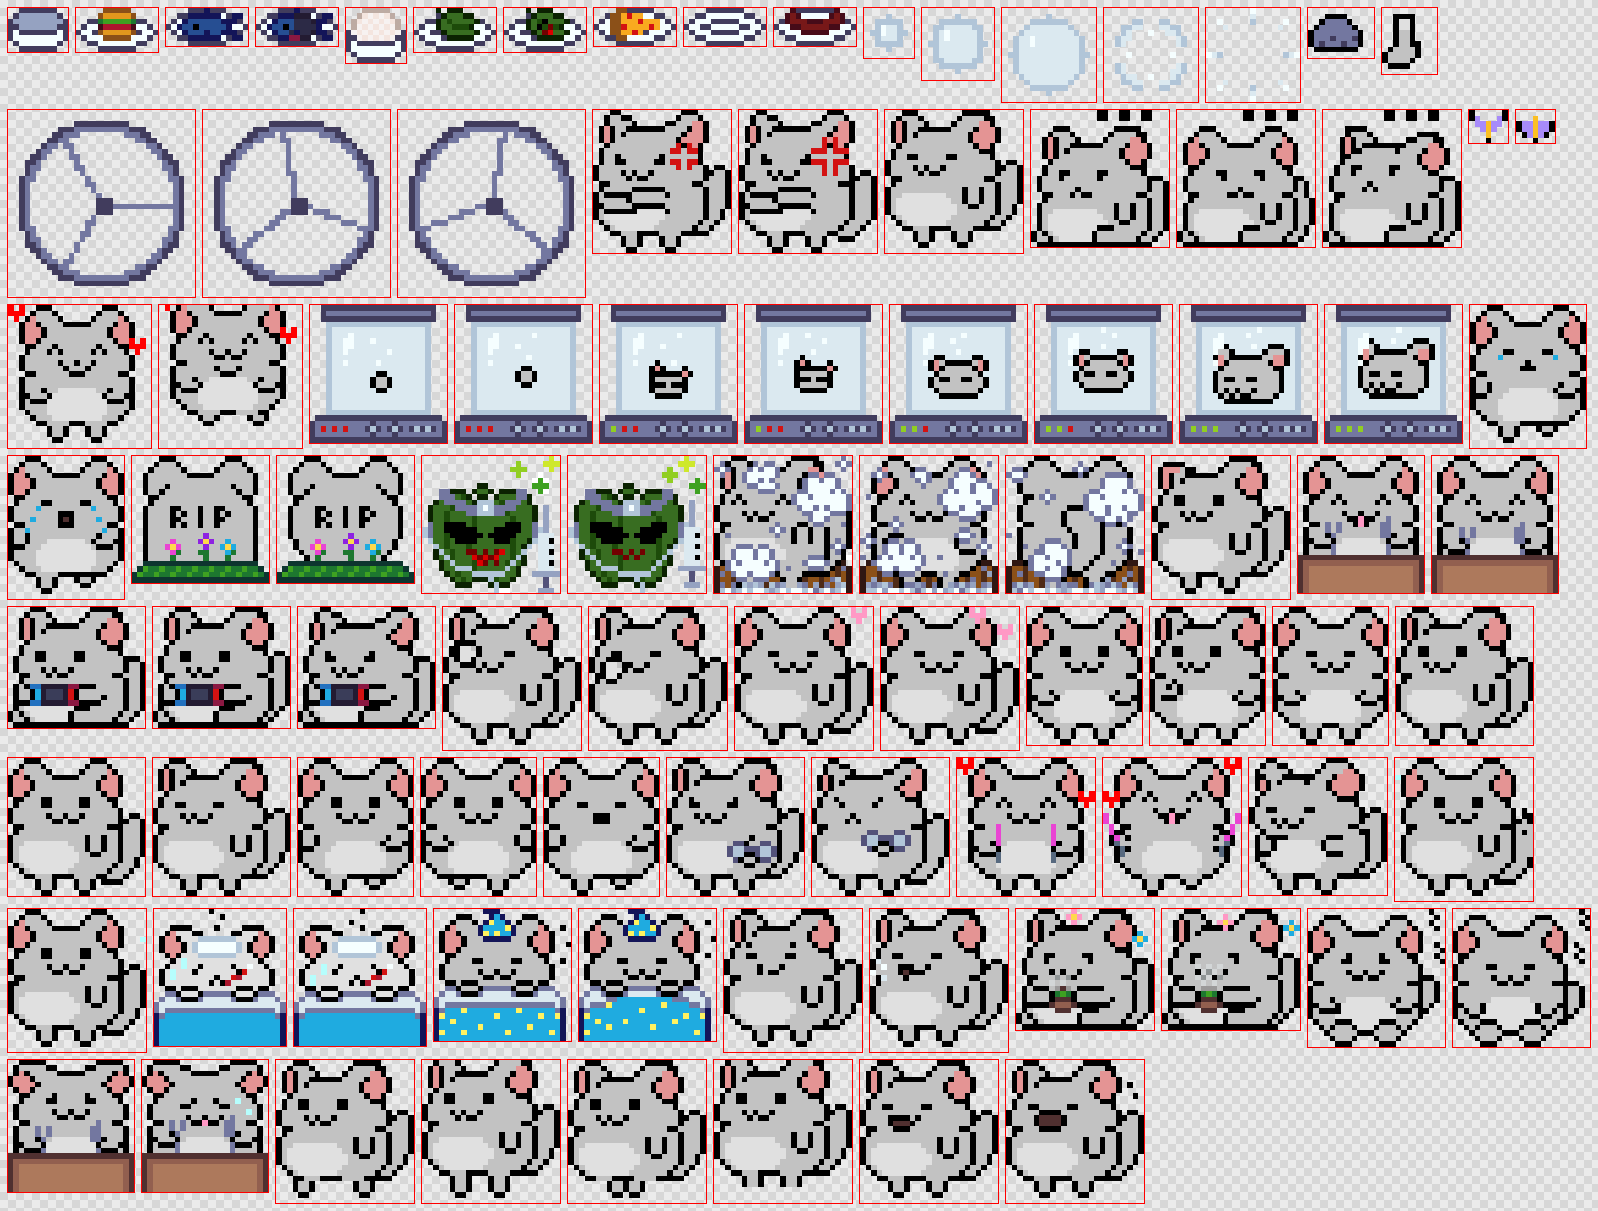
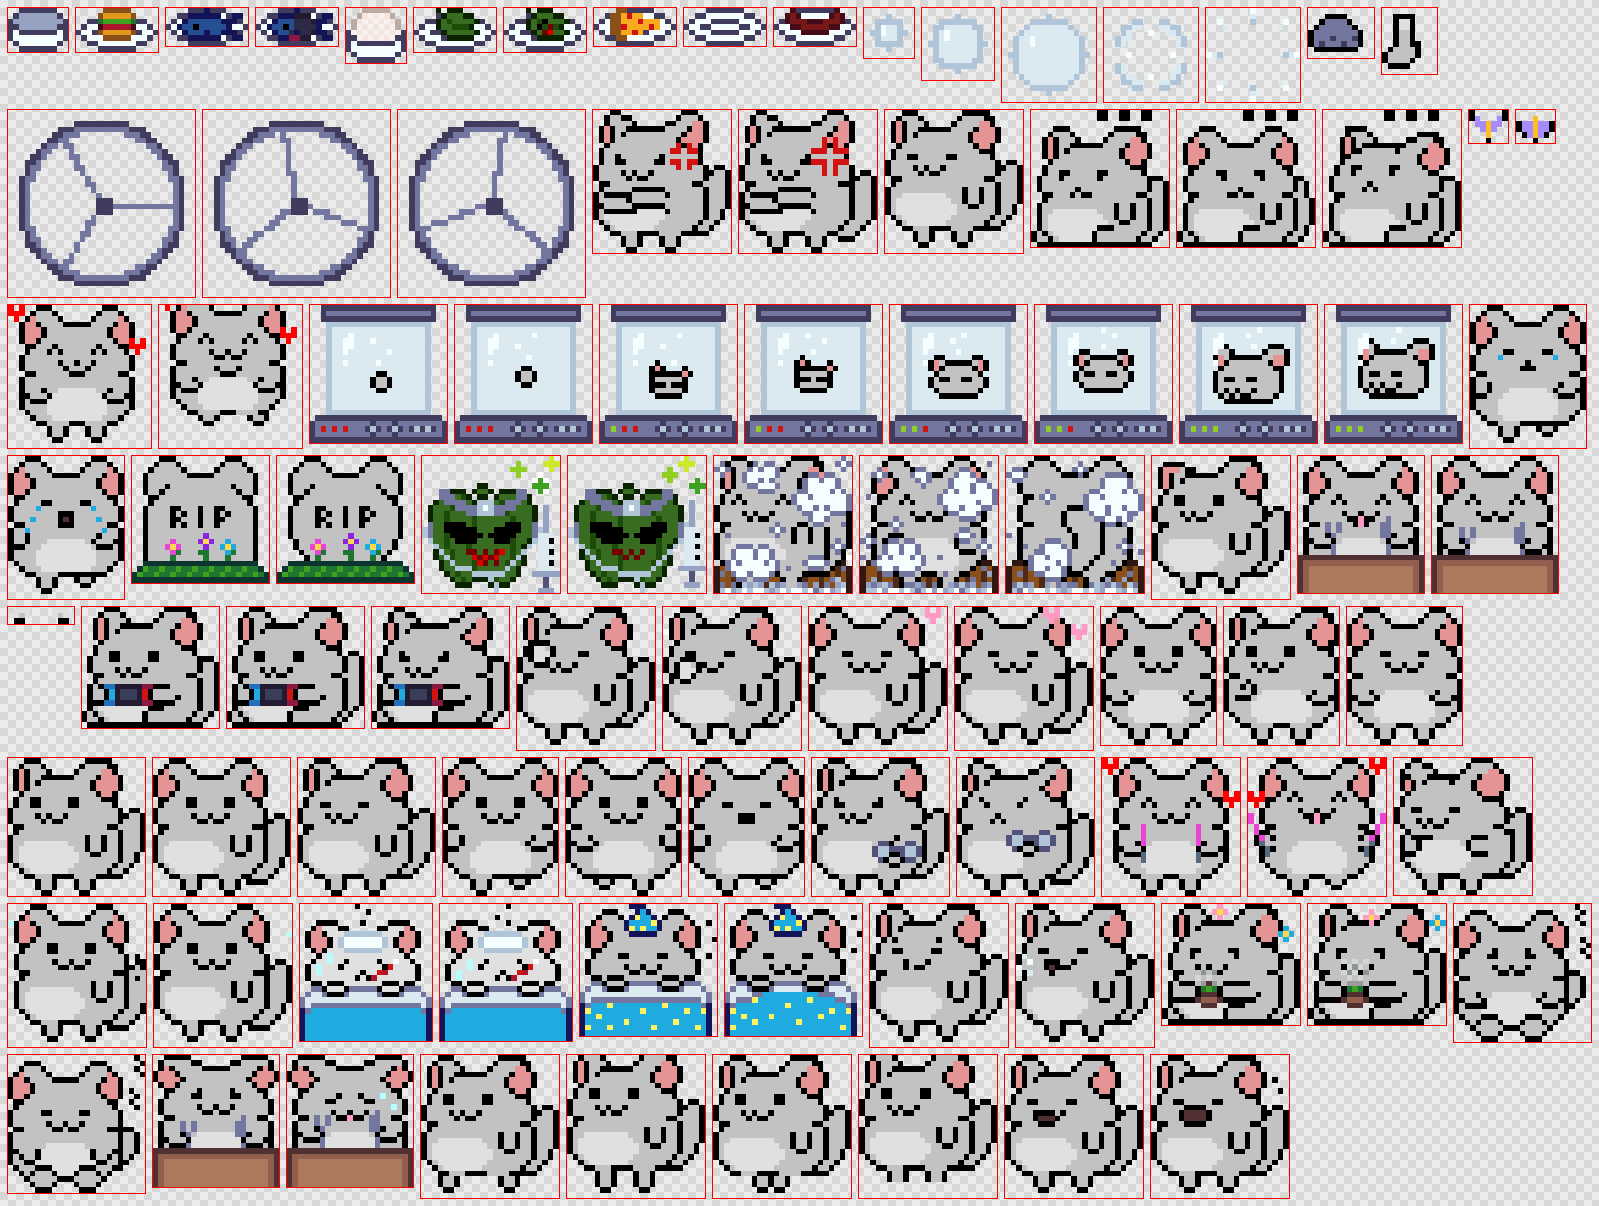
Scaled the Pet by Life Stage and Gave Elders Brow Tufts

diff --git a/src/game/atlas.generated.ts b/src/game/atlas.generated.ts
@@ -54,47 +54,48 @@ export const SPRITE_FRAMES = {
   earTwitch: { x: 1152, y: 456, w: 138, h: 143 },
   eat1: { x: 1298, y: 456, w: 126, h: 137 },
   eat2: { x: 1432, y: 456, w: 126, h: 137 },
-  game1: { x: 8, y: 607, w: 137, h: 121 },
-  game2: { x: 153, y: 607, w: 137, h: 121 },
-  game3: { x: 298, y: 607, w: 137, h: 121 },
-  groom1: { x: 443, y: 607, w: 138, h: 143 },
-  groom2: { x: 589, y: 607, w: 138, h: 143 },
-  heart1: { x: 735, y: 607, w: 138, h: 143 },
-  heart2: { x: 881, y: 607, w: 138, h: 143 },
-  idleFront1: { x: 1027, y: 607, w: 115, h: 138 },
-  idleFront2: { x: 1150, y: 607, w: 115, h: 138 },
-  idleFront3: { x: 1273, y: 607, w: 115, h: 138 },
-  idleSide1: { x: 1396, y: 607, w: 137, h: 138 },
-  idleSide2: { x: 8, y: 758, w: 137, h: 138 },
-  idleSide3: { x: 153, y: 758, w: 137, h: 138 },
-  jog1: { x: 298, y: 758, w: 115, h: 138 },
-  jog2: { x: 421, y: 758, w: 115, h: 138 },
-  jog3: { x: 544, y: 758, w: 115, h: 138 },
-  lift1: { x: 667, y: 758, w: 137, h: 138 },
-  lift2: { x: 812, y: 758, w: 137, h: 138 },
-  lights1: { x: 957, y: 758, w: 138, h: 138 },
-  lights2: { x: 1103, y: 758, w: 138, h: 138 },
-  pekori: { x: 1249, y: 758, w: 138, h: 137 },
-  shiver1: { x: 1395, y: 758, w: 138, h: 143 },
-  shiver2: { x: 8, y: 909, w: 138, h: 143 },
-  sick1: { x: 154, y: 909, w: 132, h: 137 },
-  sick2: { x: 294, y: 909, w: 132, h: 137 },
-  sleep1: { x: 434, y: 909, w: 137, h: 132 },
-  sleep2: { x: 579, y: 909, w: 137, h: 132 },
-  sneeze1: { x: 724, y: 909, w: 138, h: 143 },
-  sneeze2: { x: 870, y: 909, w: 138, h: 143 },
-  tea1: { x: 1016, y: 909, w: 138, h: 121 },
-  tea2: { x: 1162, y: 909, w: 138, h: 121 },
-  tired1: { x: 1308, y: 909, w: 137, h: 138 },
-  tired2: { x: 1453, y: 909, w: 137, h: 138 },
-  unhappyEat1: { x: 8, y: 1060, w: 126, h: 132 },
-  unhappyEat2: { x: 142, y: 1060, w: 126, h: 132 },
-  walk1: { x: 276, y: 1060, w: 138, h: 143 },
-  walk2: { x: 422, y: 1060, w: 138, h: 143 },
-  walk3: { x: 568, y: 1060, w: 138, h: 143 },
-  walk4: { x: 714, y: 1060, w: 138, h: 143 },
-  yawn1: { x: 860, y: 1060, w: 138, h: 143 },
-  yawn2: { x: 1006, y: 1060, w: 138, h: 143 },
+  elderBrows: { x: 8, y: 607, w: 66, h: 17 },
+  game1: { x: 82, y: 607, w: 137, h: 121 },
+  game2: { x: 227, y: 607, w: 137, h: 121 },
+  game3: { x: 372, y: 607, w: 137, h: 121 },
+  groom1: { x: 517, y: 607, w: 138, h: 143 },
+  groom2: { x: 663, y: 607, w: 138, h: 143 },
+  heart1: { x: 809, y: 607, w: 138, h: 143 },
+  heart2: { x: 955, y: 607, w: 138, h: 143 },
+  idleFront1: { x: 1101, y: 607, w: 115, h: 138 },
+  idleFront2: { x: 1224, y: 607, w: 115, h: 138 },
+  idleFront3: { x: 1347, y: 607, w: 115, h: 138 },
+  idleSide1: { x: 8, y: 758, w: 137, h: 138 },
+  idleSide2: { x: 153, y: 758, w: 137, h: 138 },
+  idleSide3: { x: 298, y: 758, w: 137, h: 138 },
+  jog1: { x: 443, y: 758, w: 115, h: 138 },
+  jog2: { x: 566, y: 758, w: 115, h: 138 },
+  jog3: { x: 689, y: 758, w: 115, h: 138 },
+  lift1: { x: 812, y: 758, w: 137, h: 138 },
+  lift2: { x: 957, y: 758, w: 137, h: 138 },
+  lights1: { x: 1102, y: 758, w: 138, h: 138 },
+  lights2: { x: 1248, y: 758, w: 138, h: 138 },
+  pekori: { x: 1394, y: 758, w: 138, h: 137 },
+  shiver1: { x: 8, y: 904, w: 138, h: 143 },
+  shiver2: { x: 154, y: 904, w: 138, h: 143 },
+  sick1: { x: 300, y: 904, w: 132, h: 137 },
+  sick2: { x: 440, y: 904, w: 132, h: 137 },
+  sleep1: { x: 580, y: 904, w: 137, h: 132 },
+  sleep2: { x: 725, y: 904, w: 137, h: 132 },
+  sneeze1: { x: 870, y: 904, w: 138, h: 143 },
+  sneeze2: { x: 1016, y: 904, w: 138, h: 143 },
+  tea1: { x: 1162, y: 904, w: 138, h: 121 },
+  tea2: { x: 1308, y: 904, w: 138, h: 121 },
+  tired1: { x: 1454, y: 904, w: 137, h: 138 },
+  tired2: { x: 8, y: 1055, w: 137, h: 138 },
+  unhappyEat1: { x: 153, y: 1055, w: 126, h: 132 },
+  unhappyEat2: { x: 287, y: 1055, w: 126, h: 132 },
+  walk1: { x: 421, y: 1055, w: 138, h: 143 },
+  walk2: { x: 567, y: 1055, w: 138, h: 143 },
+  walk3: { x: 713, y: 1055, w: 138, h: 143 },
+  walk4: { x: 859, y: 1055, w: 138, h: 143 },
+  yawn1: { x: 1005, y: 1055, w: 138, h: 143 },
+  yawn2: { x: 1151, y: 1055, w: 138, h: 143 },
 } as const satisfies Record<string, SpriteFrame>;
 
 export type FrameName = keyof typeof SPRITE_FRAMES;

diff --git a/src/game/scene/room.ts b/src/game/scene/room.ts
@@ -9,7 +9,7 @@ import { AnimationMachine } from "../anim/machine";
 import { BUTTERFLY_CLIP, WALK_CLIP, type OneShotName } from "../anim/clips";
 import type { DerivedState } from "@/sim/derive";
 import type { AmbientEvent } from "@/sim/ambient";
-import type { CareAction } from "@/sim/tuning";
+import type { CareAction, LifeStage } from "@/sim/tuning";
 
 export const ROOM_WIDTH = 260;
 export const ROOM_HEIGHT = 200;
@@ -49,6 +49,24 @@ const CARE_PARTICLES: Record<CareAction, { kind: ParticleKind; count: number }> 
   MEDICATE: { kind: "sparkle", count: 8 },
 };
 
+// Visible growth (SPEC §21.9): the stage the sim already tracks finally
+// shows. A hatchling is small and a juvenile nearly grown; adulthood is the
+// art's own size, and an elder keeps it but gains brow tufts. The anchor is
+// bottom-center throughout, so every size stands on the same floor.
+export const STAGE_SCALE: Record<LifeStage, number> = {
+  EGG: 1,
+  HATCHLING: 0.8,
+  PUP: 0.85,
+  JUVENILE: 0.9,
+  ADULT: 1,
+  ELDER: 1,
+};
+
+export const stageScale = (stage: LifeStage): number => STAGE_SCALE[stage];
+
+/** Where the brow tufts sit above the floor, in the pet's own pixels. */
+const ELDER_BROWS_Y = -112;
+
 /** How this generation feels about the meal it was just fed (SPEC §21.4). */
 export type FoodTaste = "favorite" | "disliked";
 
@@ -66,6 +84,7 @@ export class Room {
   private readonly particles = new Particles();
   private readonly toasts = new Toasts();
   private asleep = false;
+  private stage: LifeStage = "EGG";
   private ambientMs = 0;
   private petX = PET_X;
   private facingRight = false;
@@ -85,6 +104,12 @@ export class Room {
   syncDerived(derived: DerivedState, asleep: boolean, nowMs: number): void {
     this.machine.setBase(derived.animation, nowMs);
     this.asleep = asleep;
+    this.stage = derived.stage;
+  }
+
+  /** The draw scale the pet's life stage calls for right now. */
+  get petScale(): number {
+    return stageScale(this.stage);
   }
 
   onCare(action: CareAction, label: string, nowMs: number, taste?: FoodTaste): void {
@@ -181,17 +206,18 @@ export class Room {
         ? WALK_CLIP.frames[Math.floor(nowMs / WALK_CLIP.frameMs) % WALK_CLIP.frames.length]!
         : this.machine.frameAt(nowMs);
       const x = Math.round(this.petX);
+      const scale = this.petScale;
       if (this.facingRight) {
         // The art faces left; strolling right mirrors it around the anchor.
         ctx.save();
         ctx.translate(x, 0);
         ctx.scale(-1, 1);
-        this.atlas.draw(ctx, frame, 0, PET_Y);
+        this.atlas.draw(ctx, frame, 0, PET_Y, scale);
         ctx.restore();
       } else {
-        this.atlas.draw(ctx, frame, x, PET_Y);
+        this.atlas.draw(ctx, frame, x, PET_Y, scale);
       }
-      this.renderCosmetic(ctx);
+      this.renderHead(ctx, x, scale);
     }
 
     this.particles.render(ctx);
@@ -274,15 +300,27 @@ export class Room {
     }
   }
 
-  /** The worn cosmetic, anchored to the pet's head. */
+  /**
+   * Everything worn on the head, drawn inside the pet's own scaled space so
+   * a hatchling's hat is a hatchling-sized hat. An elder's brow tufts stack
+   * underneath whatever cosmetic is on top of them (SPEC §21.9).
+   */
+  private renderHead(ctx: CanvasRenderingContext2D, x: number, scale: number): void {
+    ctx.save();
+    ctx.translate(x, PET_Y);
+    ctx.scale(scale, scale);
+    if (this.stage === "ELDER") this.atlas.draw(ctx, "elderBrows", -2, ELDER_BROWS_Y);
+    this.renderCosmetic(ctx);
+    ctx.restore();
+  }
+
+  /** The worn cosmetic, in head-anchored coordinates. */
   private renderCosmetic(ctx: CanvasRenderingContext2D): void {
     const hat = this.decor.activeCosmetic;
     if (!hat) return;
-    const x = Math.round(this.petX) - 2;
-    const y = PET_Y - 128;
     const px = (dx: number, dy: number, w: number, h: number, color: string): void => {
       ctx.fillStyle = color;
-      ctx.fillRect(x + dx, y + dy, w, h);
+      ctx.fillRect(dx - 2, dy - 128, w, h);
     };
     if (hat === "bow") {
       px(-10, 2, 8, 8, "#d9538a");

diff --git a/src/game/scene/room.test.ts b/src/game/scene/room.test.ts
@@ -1,0 +1,54 @@
+// Visible growth (SPEC §21.9). The scene's only job here is arithmetic — a
+// stage picks a scale, and a scale picks a rectangle — so both halves are
+// tested directly rather than through a canvas.
+
+import { describe, expect, it } from "vitest";
+import { Room, STAGE_SCALE, stageScale } from "./room";
+import { drawRect } from "../engine/atlas";
+import { SPRITE_FRAMES } from "../atlas.generated";
+import { derive } from "@/sim/derive";
+import { hatchedState, projectImmortal, testCtx } from "@/sim/testkit";
+import { STAGE_STARTS, TICKS_PER_DAY, type LifeStage } from "@/sim/tuning";
+
+const ctx = testCtx();
+const RAMP: LifeStage[] = ["HATCHLING", "PUP", "JUVENILE", "ADULT", "ELDER"];
+
+describe("stage scale", () => {
+  it("grows a hatchling into an adult and never shrinks along the way", () => {
+    expect(stageScale("HATCHLING")).toBe(0.8);
+    expect(stageScale("JUVENILE")).toBe(0.9);
+    expect(stageScale("ADULT")).toBe(1);
+    expect(stageScale("ELDER")).toBe(1);
+    for (let index = 1; index < RAMP.length; index++) {
+      expect(stageScale(RAMP[index]!)).toBeGreaterThanOrEqual(stageScale(RAMP[index - 1]!));
+    }
+    expect(Object.keys(STAGE_SCALE).sort()).toEqual([...RAMP, "EGG"].sort());
+  });
+
+  it("follows the derived stage the sim reports, hatch through elderhood", () => {
+    const room = new Room();
+    const born = hatchedState(ctx);
+    for (const { stage, atTick } of STAGE_STARTS) {
+      const state = projectImmortal(born, atTick + 1, ctx);
+      room.syncDerived(derive(state), state.asleep, 0);
+      expect(room.petScale).toBe(stageScale(stage));
+    }
+    // The elder keeps the adult's size — age shows in the brows, not the bulk.
+    const elder = projectImmortal(born, 22 * TICKS_PER_DAY, ctx);
+    room.syncDerived(derive(elder), elder.asleep, 0);
+    expect(room.petScale).toBe(1);
+  });
+
+  it("scales the drawn rectangle around a fixed bottom-center anchor", () => {
+    const frame = SPRITE_FRAMES.idleSide1;
+    const adult = drawRect(frame, 130, 172, 1);
+    const hatchling = drawRect(frame, 130, 172, stageScale("HATCHLING"));
+
+    expect(adult).toEqual({ dx: Math.round(130 - frame.w / 2), dy: 172 - frame.h, dw: frame.w, dh: frame.h });
+    expect(hatchling.dw).toBe(Math.round(frame.w * 0.8));
+    expect(hatchling.dh).toBe(Math.round(frame.h * 0.8));
+    // Same floor, same centre line: only the silhouette changes.
+    expect(hatchling.dy + hatchling.dh).toBe(172);
+    expect(hatchling.dx + hatchling.dw / 2).toBeCloseTo(130, 0);
+  });
+});

diff --git a/src/game/engine/atlas.ts b/src/game/engine/atlas.ts
@@ -3,7 +3,7 @@
 // image request (flaky mobile network, tab restored mid-fetch) must degrade
 // to a late pet, never a permanently empty room.
 
-import { SPRITE_FRAMES, type FrameName } from "../atlas.generated";
+import { SPRITE_FRAMES, type FrameName, type SpriteFrame } from "../atlas.generated";
 
 const LOAD_ATTEMPTS = 4;
 const RETRY_BASE_MS = 600;
@@ -32,6 +32,22 @@ export const loadSpriteSheet = async (src: string): Promise<HTMLImageElement | n
   return null;
 };
 
+/**
+ * Where a frame lands on the canvas: bottom-center anchored at (x, y),
+ * scaled, and snapped to whole pixels so the art never lands half a pixel
+ * off and blurs. Pure, so the life-stage scaling is directly testable.
+ */
+export const drawRect = (
+  frame: SpriteFrame,
+  x: number,
+  y: number,
+  scale: number,
+): { dx: number; dy: number; dw: number; dh: number } => {
+  const dw = Math.round(frame.w * scale);
+  const dh = Math.round(frame.h * scale);
+  return { dx: Math.round(x - dw / 2), dy: Math.round(y - dh), dw, dh };
+};
+
 export class Atlas {
   private image: HTMLImageElement | null = null;
 
@@ -48,11 +64,10 @@ export class Atlas {
   }
 
   /** Draw a frame with its bottom-center anchored at (x, y), snapped. */
-  draw(ctx: CanvasRenderingContext2D, name: FrameName, x: number, y: number): void {
+  draw(ctx: CanvasRenderingContext2D, name: FrameName, x: number, y: number, scale = 1): void {
     if (!this.image) return;
     const frame = SPRITE_FRAMES[name];
-    const dx = Math.round(x - frame.w / 2);
-    const dy = Math.round(y - frame.h);
-    ctx.drawImage(this.image, frame.x, frame.y, frame.w, frame.h, dx, dy, frame.w, frame.h);
+    const { dx, dy, dw, dh } = drawRect(frame, x, y, scale);
+    ctx.drawImage(this.image, frame.x, frame.y, frame.w, frame.h, dx, dy, dw, dh);
   }
 }
